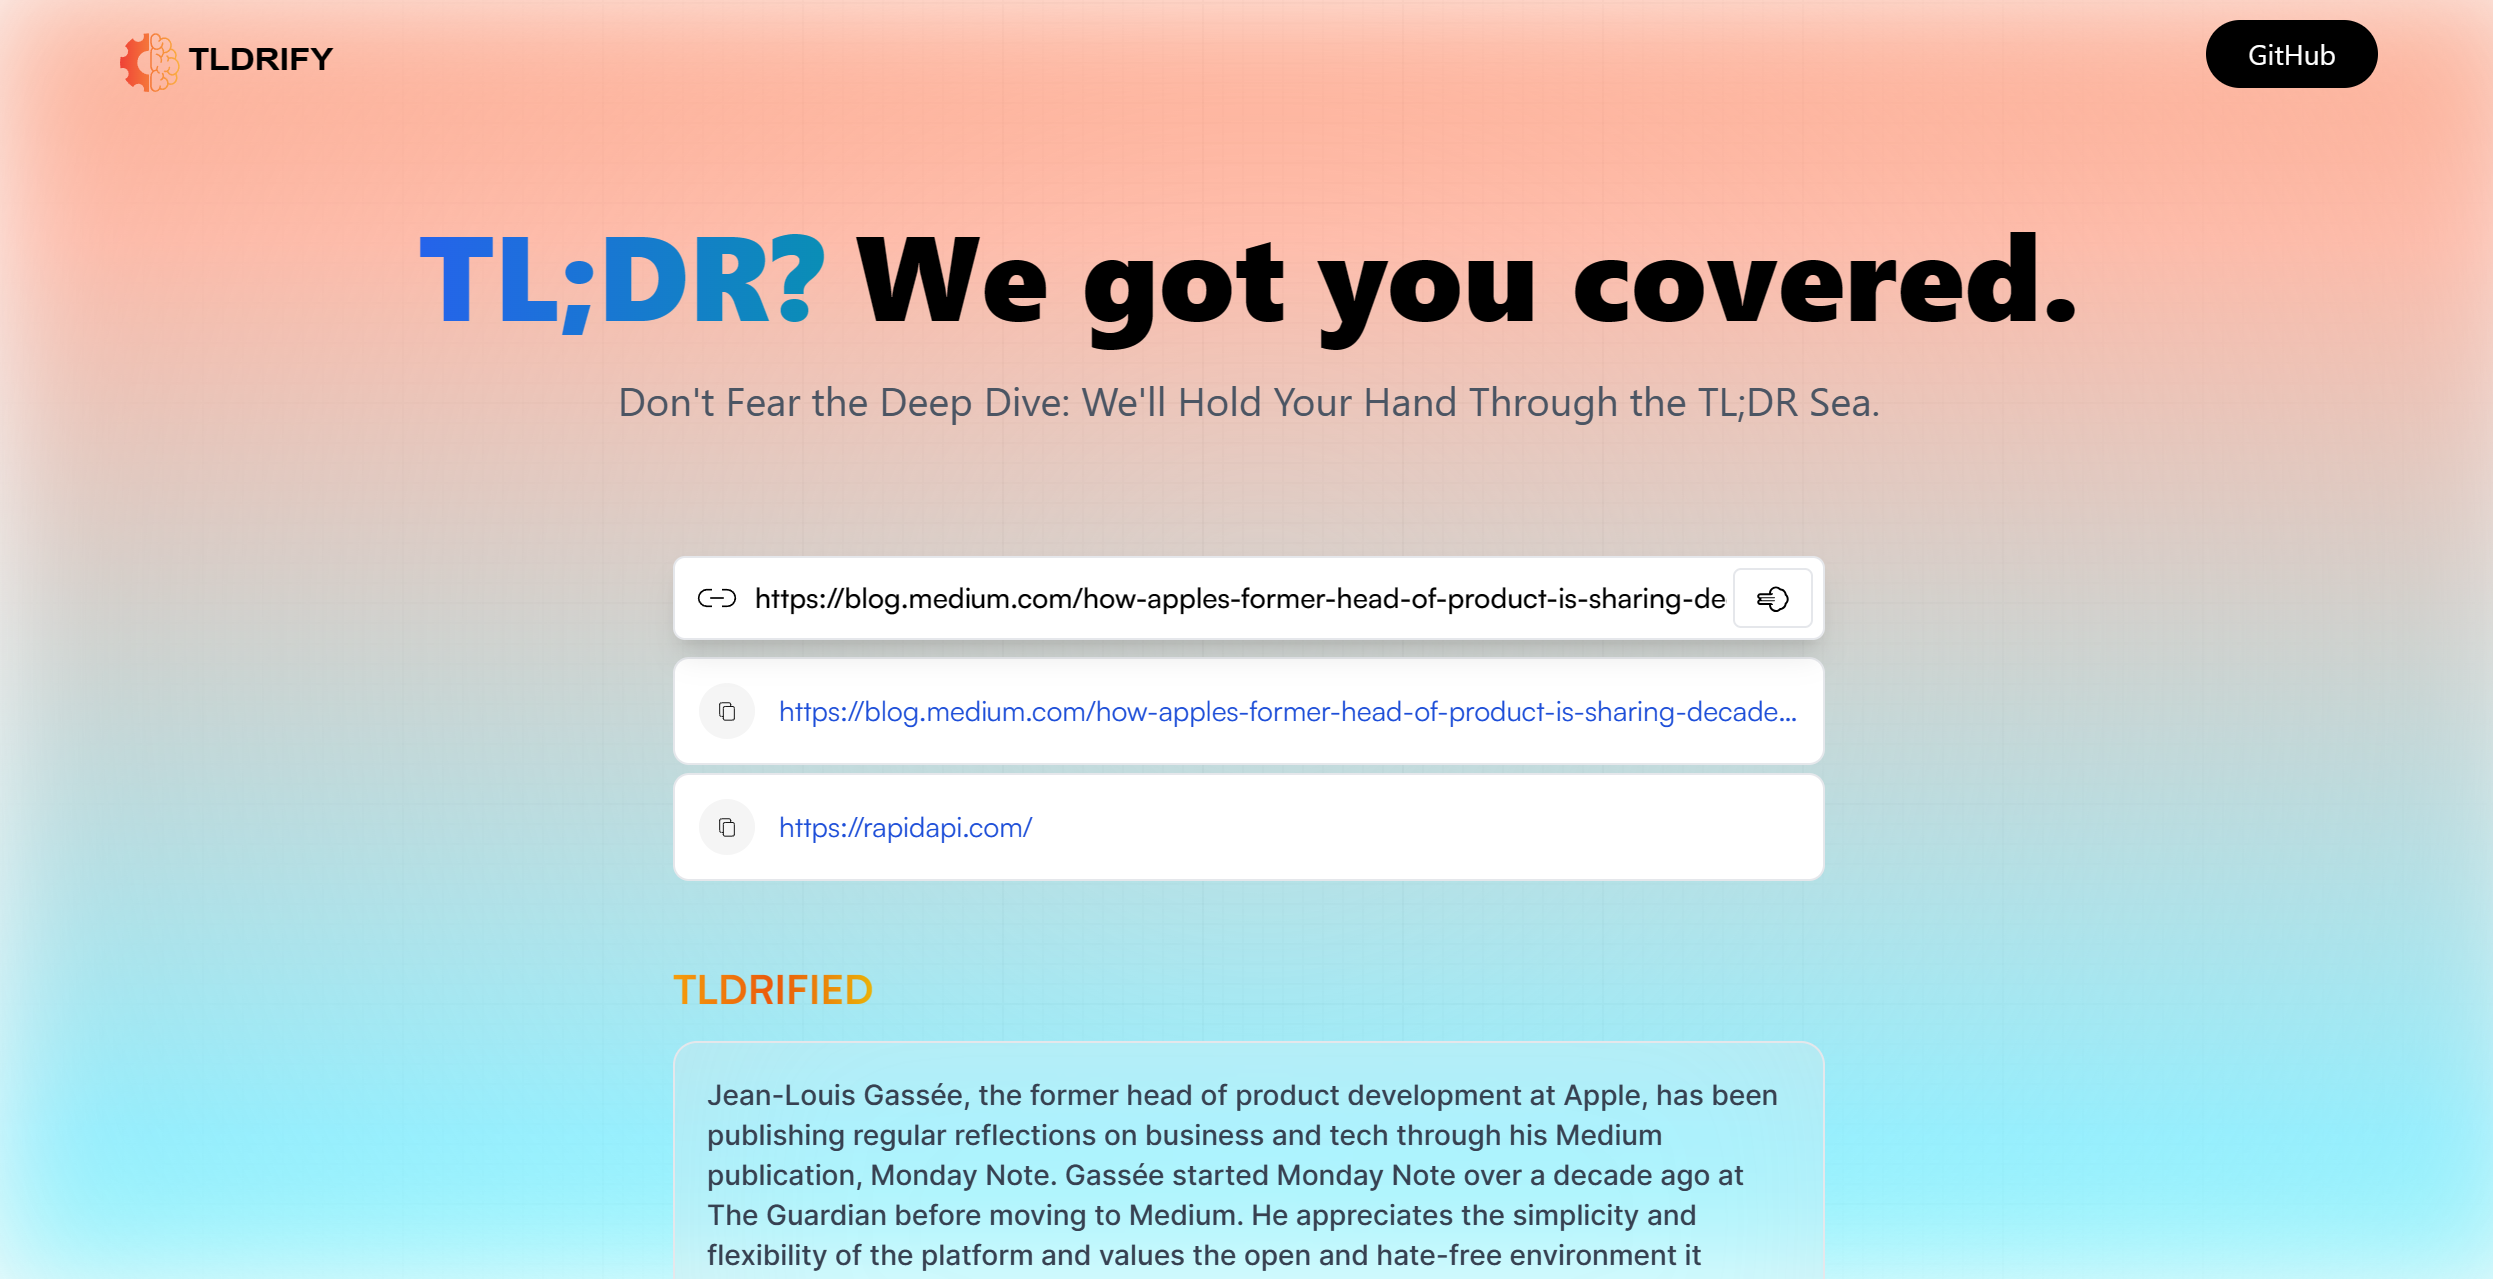
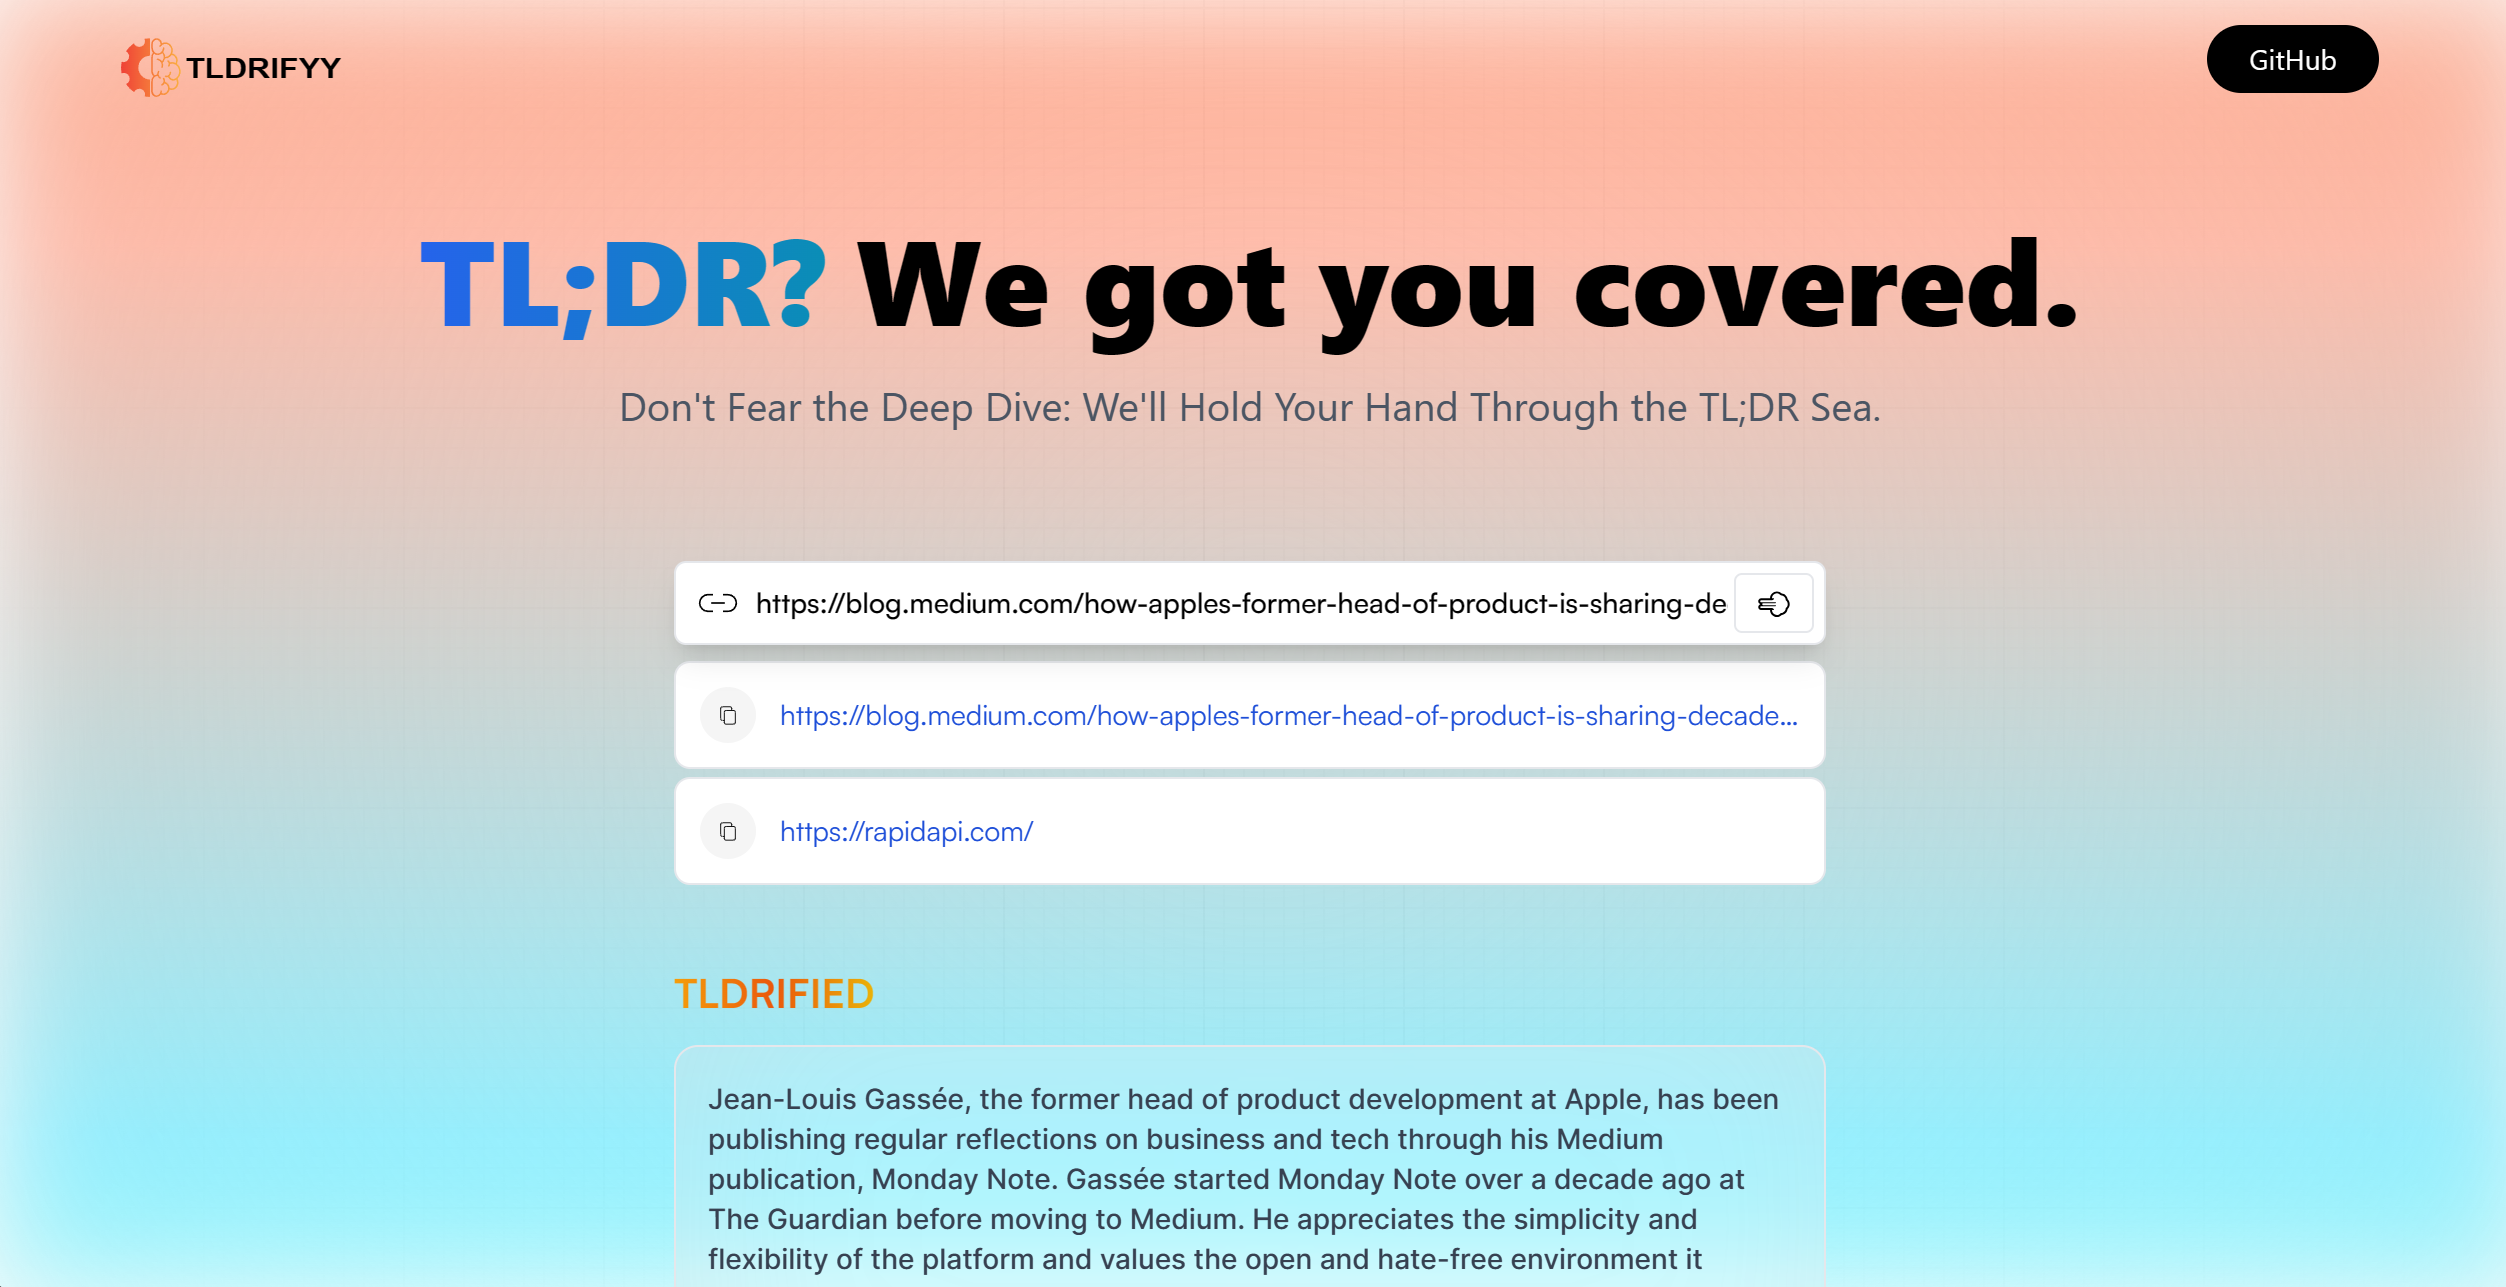
adding modified files

diff --git a/src/components/Hero.jsx b/src/components/Hero.jsx
@@ -5,7 +5,7 @@ const Hero = () => {
   return (
     <header className="w-full flex justify-center items-center flex-col">
       <nav className="flex justify-between items-center w-full mb-10 pt-3">
-        <img src={logo} alt="tldrify logo" className="w-28 object-contain" />
+        <img src={logo} alt="tldrifyy logo" className="w-28 object-contain" />
         <button
           type="button"
           onClick={() => {

diff --git a/index.html b/index.html
@@ -14,7 +14,7 @@
       href="https://fonts.googleapis.com/css2?family=Inter:wght@100;200;300;400;500;600;700;800;900&display=swap"
       rel="stylesheet"
     />
-    <title>TLDRIFY</title>
+    <title>TLDRIFYY</title>
   </head>
   <body>
     <div id="root"></div>

diff --git a/README.md b/README.md
@@ -1,10 +1,12 @@
-# TLDRIFY
+# TLDRIFYY
 
-AI content summarizer, summarizes articles as well as website in a single paragraph.
+AI Content Summarizer, summarizes articles, websites in a single paragraph.
 
-### Tech Stack
+## Tech Stack
 
 Front-End - ReactJs\
 Api - RapidApi, ReduxJs-Toolkit
 
-### Snap
+## Snapshot
+
+![home page](https://github.com/NukeVdnt/Tldrifyy/blob/main/src/snaps/poc.png)
